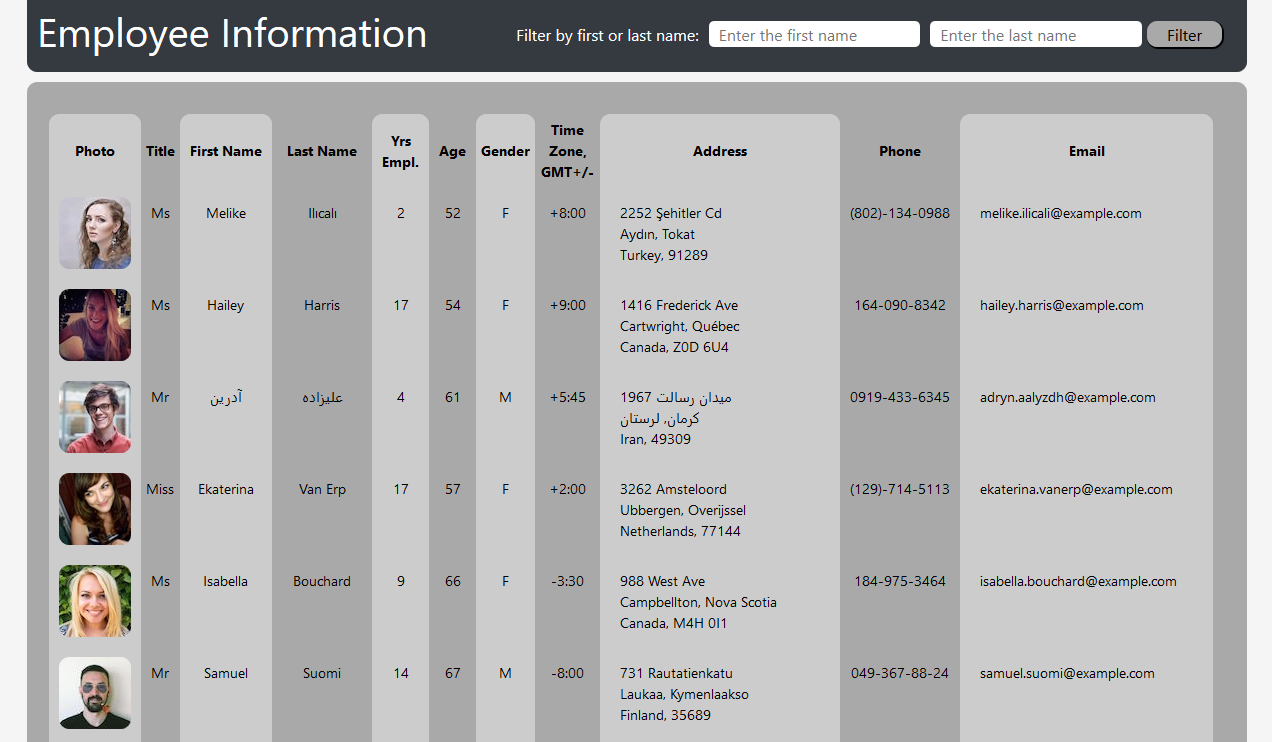
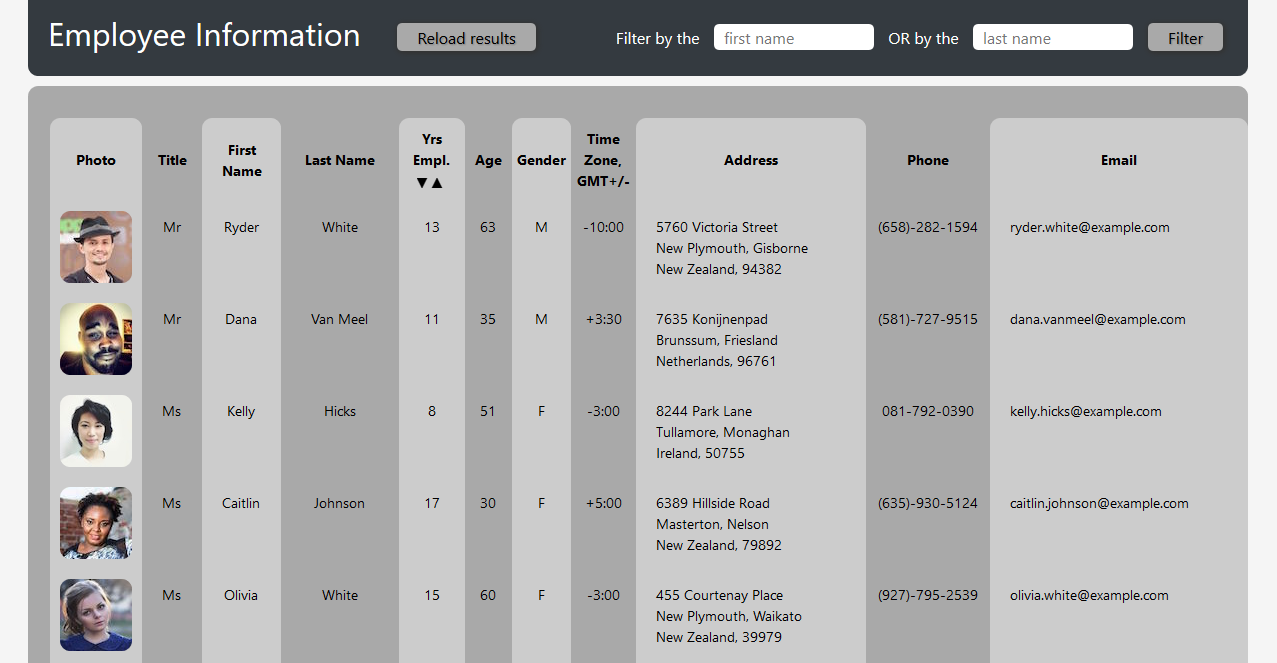
added sorting and filtering by last name, updated README

diff --git a/src/components/Employees.js b/src/components/Employees.js
@@ -15,10 +15,51 @@ export default class Employees extends Component {
 
   componentDidMount() {
     axios
-        .get('https://randomuser.me/api/?results=50&?password=special,upper,lower,number,8-15')
+        .get('https://randomuser.me/api/?results=50')
         .then(res => {
             this.setState({results: res.data.results, employees: res.data.results});    
         })
+  }
+
+  reloadResults = (event, empArr) => {
+    event.preventDefault();
+    empArr = this.state.employees;
+    this.setState({ 
+      results: empArr
+    });  
+  }
+
+  sortResults = (event, newArr) => {
+    event.preventDefault();
+    if (event.target.id === "asc") {
+      newArr = this.state.employees.sort((a, b) => {
+        const first = a.registered.age;
+        const second = b.registered.age;
+        if (first < second) {
+          return -1;
+        }
+        if (first > second) {
+          return 1;
+        }
+        return 0;
+      });  
+    } else if (event.target.id === "desc") {
+      newArr = this.state.employees.sort((a, b) => {
+        const first = a.registered.age;
+        const second = b.registered.age;
+        if (first < second) {
+          return 1;
+        }
+        if (first > second) {
+          return -1;
+        }
+        return 0;
+      });        
+    }
+
+    this.setState({
+      results: newArr
+    })
   }
 
   handleInputChange = event => {
@@ -28,13 +69,25 @@ export default class Employees extends Component {
     });
   };
 
-  handleFormSubmit = (event, firstName) => {
+  handleFormSubmit = (event, firstName, lastName) => {
       event.preventDefault();
       firstName = this.state.firstName;
-      const newArr = this.state.employees.filter(employee => employee.name.first === firstName);
-      this.setState({
-        results: newArr
-      });
+      lastName = this.state.lastName;
+      if (firstName === "" && lastName === "") {
+        alert("Please select either FIRST or LAST name to filter the results.");
+      } else if (firstName === "") {
+        const newArr = this.state.employees.filter(employee => employee.name.last === lastName);
+        this.setState({
+          results: newArr,
+          lastName: ""
+        });
+      } else {
+        const newArr = this.state.employees.filter(employee => employee.name.first === firstName);
+        this.setState({
+          results: newArr,
+          firstName: ""
+        });
+      }
   };
 
   render() {
@@ -43,20 +96,22 @@ export default class Employees extends Component {
 
       <header>
         <div className="header bg-dark">
-          <h1 className="center text-white">Employee Information</h1>
+          <h2 id="title" className="text-white">Employee Information</h2>
           <Form 
             firstName={this.state.firstName}
             lastName={this.state.lastName}
+            reloadResults={this.reloadResults}
             handleFormSubmit={this.handleFormSubmit}
             handleInputChange={this.handleInputChange}
           />
         </div>     
-        <div className="empty"></div>  
+        <div className="empty"></div>
       </header>
 
       <main>
         <Results
           employees={this.state.results} 
+          sortResults={this.sortResults}
         />
       </main>
 

diff --git a/src/components/Form.js b/src/components/Form.js
@@ -1,26 +1,28 @@
 import React from "react";
 
-export default function Form({ firstName, lastName, handleFormSubmit, handleInputChange }) {
+export default function Form({ firstName, lastName, reloadResults, handleFormSubmit, handleInputChange }) {
     return (
         <form className="head">
-            <span className="text-white">Filter by first or last name:</span>
+            <button type="submit" className="reload" onClick={reloadResults}>Reload results</button>
+            <span className="text-white">Filter by the </span>
             <input 
                 value={firstName}
                 onChange={handleInputChange} 
                 name="firstName" 
-                className="head"
+                className="input"
                 type="text" 
-                placeholder="Enter the first name" 
+                placeholder="first name" 
             />
+            <span className="text-white"> OR by the </span>
             <input
                 value={lastName}
                 onChange={handleInputChange}
                 name="lastName"
-                className="head"
+                className="input"
                 type="text"
-                placeholder="Enter the last name"
+                placeholder="last name"
             />
-            <button onClick={handleFormSubmit}>Filter</button>
+            <button type="submit" className="filter" onClick={handleFormSubmit}>Filter</button>
         </form>
     );
 }

diff --git a/src/components/employees.css b/src/components/employees.css
@@ -2,6 +2,7 @@
 img { border-radius: 10px; }
 .center { text-align: center; }
 .placeholder { border: 0; }
+h2#title { margin-left: 10px; margin-top: 5px;}
 
 /* Container and Main */
 div.container {
@@ -26,12 +27,23 @@ div.header {
     justify-content: space-between;
 }
 form.head { padding: 15px; }
-input.head {
+.input {
     border-width: 0;
     border-radius: 5px;
-    margin-left: 10px;
+    margin: 0px 10px;
     padding-left: 10px;
+    width: 160px;
 }
+button.filter, button.reload {
+    border-radius: 5px;
+    margin-left: 5px;
+    padding: 2px 20px;
+    border-width: 0px;
+    background-color: darkgray;
+    text-shadow: 1px 1px 1px gray;
+    box-shadow: 1px 1px 4px 2px #333;
+}
+button.reload { margin-right: 80px;}
 
 /* Main - Table of results */
 table {
@@ -63,6 +75,20 @@ tr#_50 td.bg-fill {
 }
 .wide { padding-left: 20px; }
 .bg-fill { background-color: #ccc; }
+.svg-triangle {
+    margin: 0 auto;
+    width: 30px;
+    height: 10px;
+}
+.svg-triangle polygon {
+    fill:black;
+    stroke:black;
+    stroke-width: 0.5;
+}
+button.sort {
+    background-color: transparent;
+    border: 0;
+}
 
 
 /* Footer */

diff --git a/src/components/Results.js b/src/components/Results.js
@@ -1,6 +1,6 @@
 import React from "react";
 
-export default function Results({employees}) {
+export default function Results({employees, sortResults}) {
     return (
       <table>
         <thead>
@@ -11,7 +11,14 @@ export default function Results({employees}) {
           <th className="narrow sm-screen">Title</th>
           <th className="bg-fill">First Name</th>
           <th>Last Name</th>
-          <th className="bg-fill">Yrs <br/> Empl.</th>
+          <th className="bg-fill">Yrs <br/> Empl. <br/>
+            <button className="sort">
+              <svg xmlns="http://www.w3.org/2000/svg" class="svg-triangle">
+                <polygon id="desc" onClick={sortResults} points="0,0 10,0 5,10"/> 
+                <polygon id="asc" onClick={sortResults} points="15,10 25,10 20,0"/>
+              </svg>
+            </button>
+          </th>
           <th className="sm-screen">Age</th>
           <th className="bg-fill narrow sm-screen">Gender</th>
           <th className="narrow sm-screen">Time Zone,<br/>GMT+/-</th>

diff --git a/README.md b/README.md
@@ -13,7 +13,8 @@ A React.js app providing an easy way to access employee information
 * Props 
 * [Random User API](https://randomuser.me/) to generate mock user data
 * Axios package to make API requests  
-* Filtering and sorting functionality after the request results are loaded
+* Filtering based on either first or last name ("Reload results" button to return to the full list) 
+* Sorting based on years employed - ascending or descending (buttons are conveniently located in the table header) 
 
 ## Some potential venues for future development
 
@@ -27,6 +28,14 @@ OR
 
 ![Screenshot 1](./public/screen1.png)
 ![Screenshot 2](./public/screen2.png)
+
+## Filtered results: 
+
+![Screenshot 3](./public/screen3-filtered.png)
+
+## Sorted (descending): 
+
+![Screenshot 4](./public/screen4-sorted.png)
 
 ## Link to the deployed app
 
